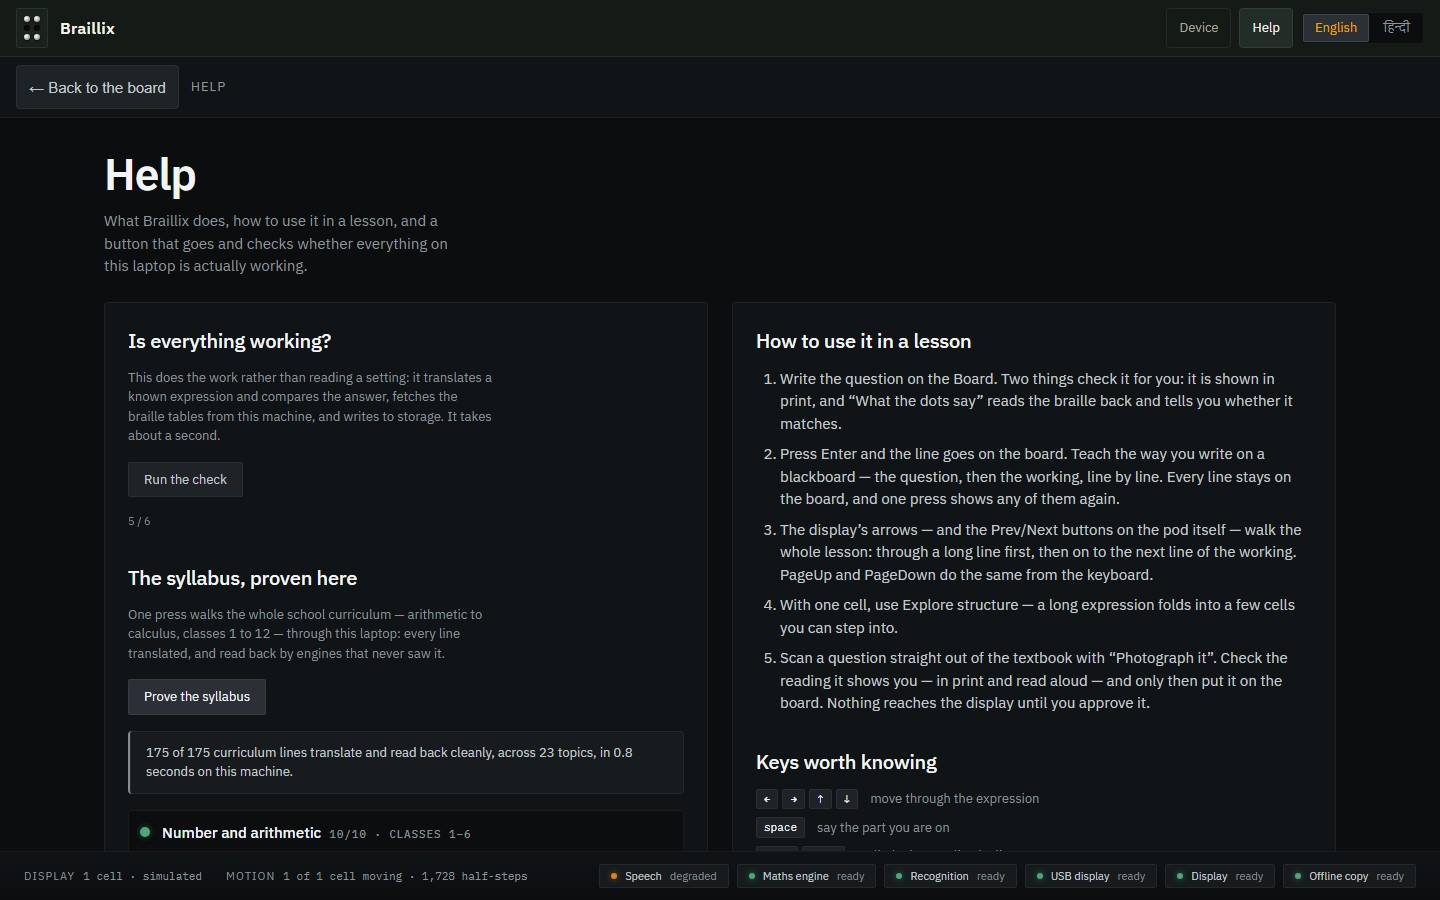
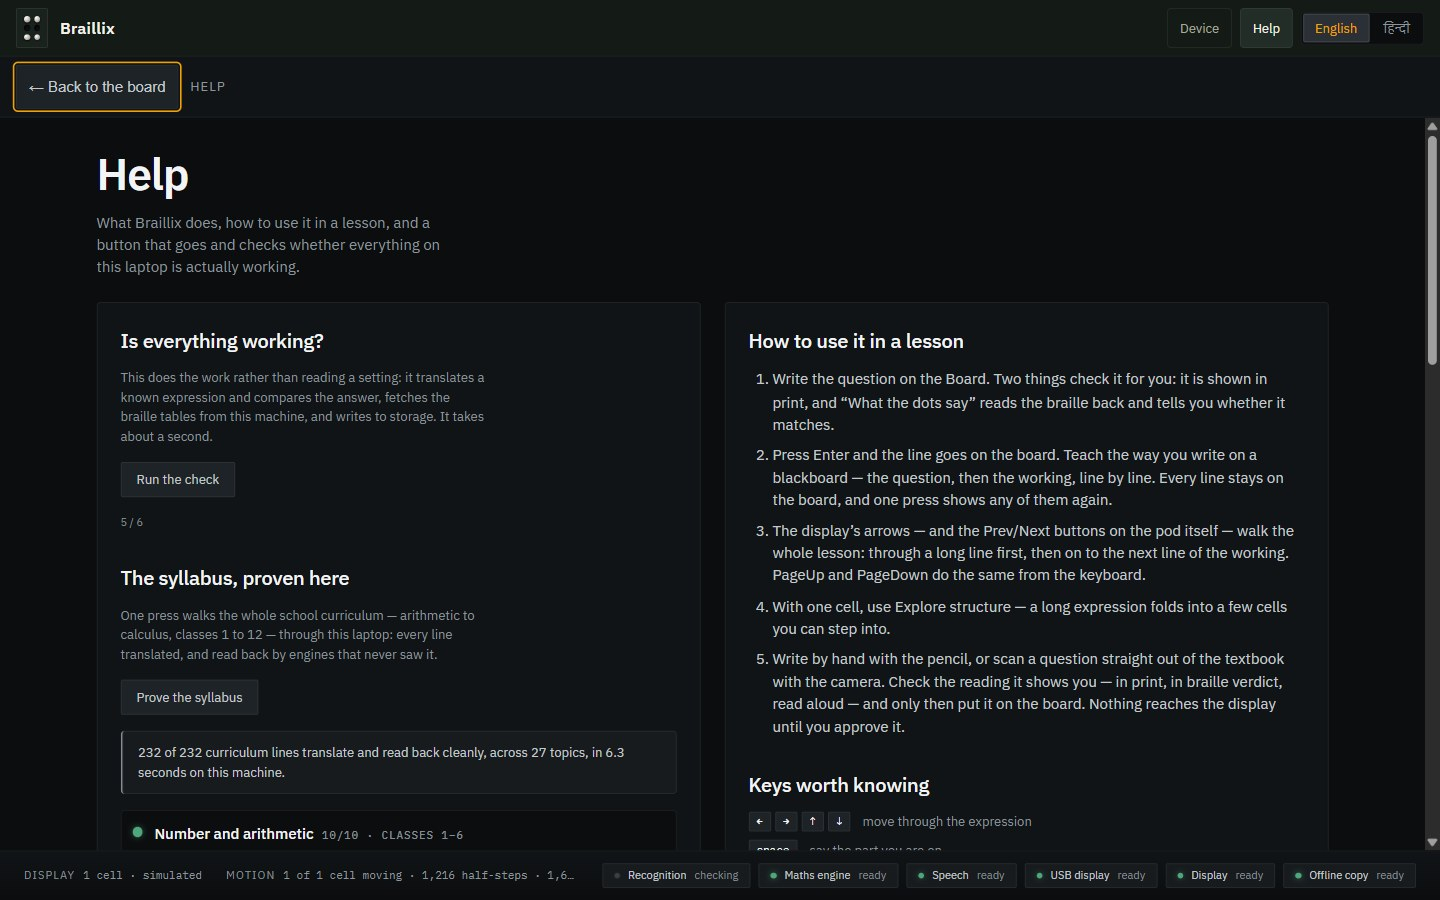
fix(parser): a name straight onto a bracket is one factor — Bayes, whole
Found by looking at the printed line, not by any suite: '/' bound only the
letter P as its denominator, so P(A)/P(B) rendered with (B) outside the
fraction — and every round-trip verdict said "agrees", because both engines
were faithful to the same mis-grouped LaTeX. The parser now binds name+(...)
as one factor (P(B), f(x), x(x+1)), which also makes 1/x(x+1) mean the
partial-fractions denominator a class 11 teacher writes. Product cells are
unchanged; shape-tested both ways. ACCURACY.md regenerated.

The lesson is in DECISIONS D-V5.8: the readback vouches for the cells; only
the print preview vouches for the intent. Both eyes stay open.

Gates: tsc 0 · lint 0 · unit 727/727 · e2e 101/101.

diff --git a/app/src/core/mathinput.ts b/app/src/core/mathinput.ts
@@ -566,6 +566,21 @@ class Parser {
   #power(): string {
     let latex = this.#atom();
     for (;;) {
+      /*
+       * A name straight onto a bracket is ONE thing — an application or a tight product:
+       * P(B), f(x), x(x+1). Binding it here (rather than as loose juxtaposition upstream)
+       * is what makes `P(A)/P(B)` a fraction over ALL of P(B), and `1/x(x+1)` the partial-
+       * fractions denominator a class 11 teacher means — not (1/x)·(x+1). Found by LOOKING
+       * at the printed Bayes line, which showed (B) standing outside the fraction; the
+       * round-trip could not catch it, because both engines were faithful to the same
+       * mis-grouped LaTeX. Cells for products are unchanged: Nemeth writes tight and loose
+       * juxtaposition identically.
+       */
+      const next = this.#peek();
+      if (next?.kind === 'open' && next.text === '(' && /^[A-Za-z][A-Za-z]*$/.test(latex)) {
+        latex = `${latex}${this.#atom()}`;
+        continue;
+      }
       if (this.#atOp('^')) {
         this.#take();
         latex = `${latex}^${braced(this.#script(true))}`;

diff --git a/app/src/core/mathinput.test.ts b/app/src/core/mathinput.test.ts
@@ -24,6 +24,11 @@ describe('natural maths — the shape of what comes out', () => {
     ['2x/3', String.raw`\frac{2x}{3}`],
     ['x^2/2', String.raw`\frac{x^2}{2}`],
     ['a/b/c', String.raw`\frac{\frac{a}{b}}{c}`],
+    // A name straight onto a bracket is one thing, on BOTH sides of a slash. Found by looking
+    // at the printed Bayes line: (B) was standing outside the fraction, and the round-trip
+    // could not object because both engines were faithful to the same mis-grouped LaTeX.
+    ['P(A)/P(B)', String.raw`\frac{P(A)}{P(B)}`],
+    ['1/x(x+1)', String.raw`\frac{1}{x(x+1)}`],
 
     // Powers and indices.
     ['x^2', 'x^2'],

diff --git a/docs/ACCURACY.md b/docs/ACCURACY.md
@@ -309,11 +309,11 @@ rather than ½ — because it exists to be compared, not admired.
 | Typed | Means | Braille | Cells | Reads back as |
 |---|---|---|---|---|
 | `lim_{x -> infinity} 1/x = 0` | a limit at infinity | ⠐⠇⠊⠍⠩⠭ ⠫⠕ ⠠⠿⠻ ⠹⠂⠌⠭⠼ ⠨⠅ ⠼⠴ | 25 | `lim_(x→∞)(1)/(x)=0` |
-| `d/dx (x^n) = n x^(n-1)` | the derivative operator | ⠹⠙⠌⠙⠭⠼⠷⠭⠘⠝⠐⠾ ⠨⠅ ⠝⠭⠘⠷⠝⠤⠂⠾ | 24 | `(d)/(dx)(x^(n))=nx^((n-1))` |
+| `d/dx (x^n) = n x^(n-1)` | the derivative operator | ⠹⠙⠌⠙⠭⠷⠭⠘⠝⠐⠾⠼ ⠨⠅ ⠝⠭⠘⠷⠝⠤⠂⠾ | 24 | `(d)/(dx(x^(n)))=nx^((n-1))` |
 | `f'(x)` | prime notation | ⠋⠄⠷⠭⠾ | 5 | `f'(x)` |
 | `d^2y/dx^2` | a second derivative | ⠹⠙⠘⠆⠐⠽⠌⠙⠭⠘⠆⠐⠼ | 13 | `(d^(2)y)/(dx^(2))` |
 | `dy/dx = dy/du x du/dx` | the chain rule | ⠹⠙⠽⠌⠙⠭⠼ ⠨⠅ ⠹⠙⠽⠌⠙⠥⠼⠈⠡⠹⠙⠥⠌⠙⠭⠼ | 27 | `(dy)/(dx)=(dy)/(du)×(du)/(dx)` |
-| `d/dx (uv) = u dv/dx + v du/dx` | the product rule | ⠹⠙⠌⠙⠭⠼⠷⠥⠧⠾ ⠨⠅ ⠹⠥⠙⠧⠌⠙⠭⠼⠬⠹⠧⠙⠥⠌⠙⠭⠼ | 31 | `(d)/(dx)(uv)=(udv)/(dx)+(vdu)/(dx)` |
+| `d/dx (uv) = u dv/dx + v du/dx` | the product rule | ⠹⠙⠌⠙⠭⠷⠥⠧⠾⠼ ⠨⠅ ⠹⠥⠙⠧⠌⠙⠭⠼⠬⠹⠧⠙⠥⠌⠙⠭⠼ | 31 | `(d)/(dx(uv))=(udv)/(dx)+(vdu)/(dx)` |
 | `int x^2 dx = x^3/3 + C` | an indefinite integral, dx and all | ⠮⠭⠘⠆⠐⠙⠭ ⠨⠅ ⠹⠭⠘⠒⠐⠌⠒⠼⠬⠠⠉ | 22 | `∫x^(2)dx=(x^(3))/(3)+C` |
 | `int_{0}^{pi} sin x dx = 2` | a definite integral | ⠮⠰⠴⠘⠨⠏⠐⠎⠊⠝ ⠭⠙⠭ ⠨⠅ ⠼⠆ | 20 | `∫_(0)^(π)sinxdx=2` |
 | `int u dv = uv - int v du` | integration by parts | ⠮⠥⠙⠧ ⠨⠅ ⠥⠧⠤⠮⠧⠙⠥ | 15 | `∫udv=uv-∫vdu` |
@@ -334,8 +334,8 @@ rather than ½ — because it exists to be compared, not admired.
 | `A^(-1) = adj(A)/|A|` | the inverse of a matrix | ⠠⠁⠘⠷⠤⠂⠾ ⠨⠅ ⠹⠁⠙⠚⠷⠠⠁⠾⠌⠳⠠⠁⠳⠼ | 25 | `A^((-1))=(adj(A))/(|A|)` |
 | `A = [[a, b], [c, d]]` | a 2×2 matrix, row by row | ⠠⠁ ⠨⠅ ⠈⠷⠈⠷⠁⠠ ⠃⠈⠾⠠ ⠈⠷⠉⠠ ⠙⠈⠾⠈⠾ | 28 | `A=[[a,b],[c,d]]` |
 | `A^T` | a transpose | ⠠⠁⠘⠠⠞ | 5 | `A^(T)` |
-| `P(A|B) = P(A intersect B)/P(B)` | conditional probability | ⠠⠏⠷⠠⠁⠳⠠⠃⠾ ⠨⠅ ⠹⠠⠏⠷⠠⠁⠨⠩⠠⠃⠾⠌⠠⠏⠼⠷⠠⠃⠾ | 32 | `P(A|B)=(P(A∩B))/(P)(B)` |
-| `P(A|B) = P(B|A) P(A)/P(B)` | Bayes’ theorem | ⠠⠏⠷⠠⠁⠳⠠⠃⠾ ⠨⠅ ⠹⠠⠏⠷⠠⠃⠳⠠⠁⠾⠠⠏⠷⠠⠁⠾⠌⠠⠏⠼⠷⠠⠃⠾ | 37 | `P(A|B)=(P(B|A)P(A))/(P)(B)` |
+| `P(A|B) = P(A intersect B)/P(B)` | conditional probability | ⠠⠏⠷⠠⠁⠳⠠⠃⠾ ⠨⠅ ⠹⠠⠏⠷⠠⠁⠨⠩⠠⠃⠾⠌⠠⠏⠷⠠⠃⠾⠼ | 32 | `P(A|B)=(P(A∩B))/(P(B))` |
+| `P(A|B) = P(B|A) P(A)/P(B)` | Bayes’ theorem | ⠠⠏⠷⠠⠁⠳⠠⠃⠾ ⠨⠅ ⠹⠠⠏⠷⠠⠃⠳⠠⠁⠾⠠⠏⠷⠠⠁⠾⠌⠠⠏⠷⠠⠃⠾⠼ | 37 | `P(A|B)=(P(B|A)P(A))/(P(B))` |
 | `P(A union B) = P(A) + P(B) - P(A intersect B)` | the addition rule | ⠠⠏⠷⠠⠁⠨⠬⠠⠃⠾ ⠨⠅ ⠠⠏⠷⠠⠁⠾⠬⠠⠏⠷⠠⠃⠾⠤⠠⠏⠷⠠⠁⠨⠩⠠⠃⠾ | 38 | `P(A∪B)=P(A)+P(B)-P(A∩B)` |
 | `sigma^2 = sum (x_i - bar(x))^2 / n` | variance | ⠨⠎⠘⠆ ⠨⠅ ⠹⠨⠠⠎⠷⠭⠰⠊⠐⠤⠐⠭⠣⠱⠻⠾⠘⠆⠐⠌⠝⠼ | 30 | `σ^(2)=(Σ(x_(i)-x‾)^(2))/(n)` |
 | `E(X) = sum x_i p_i` | expectation | ⠠⠑⠷⠠⠭⠾ ⠨⠅ ⠨⠠⠎⠭⠰⠊⠐⠏⠰⠊ | 20 | `E(X)=Σx_(i)p_(i)` |
